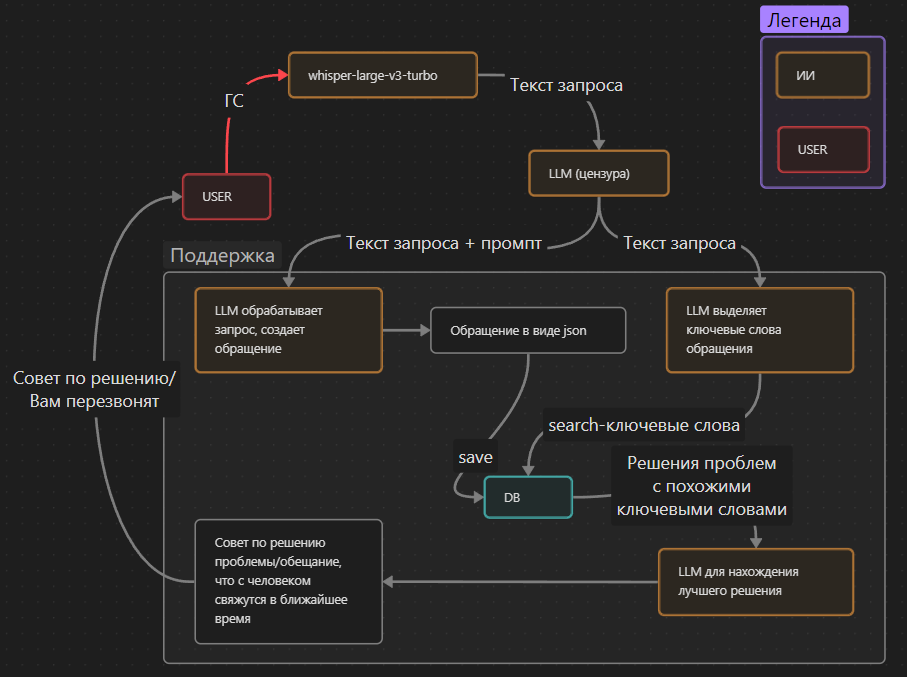
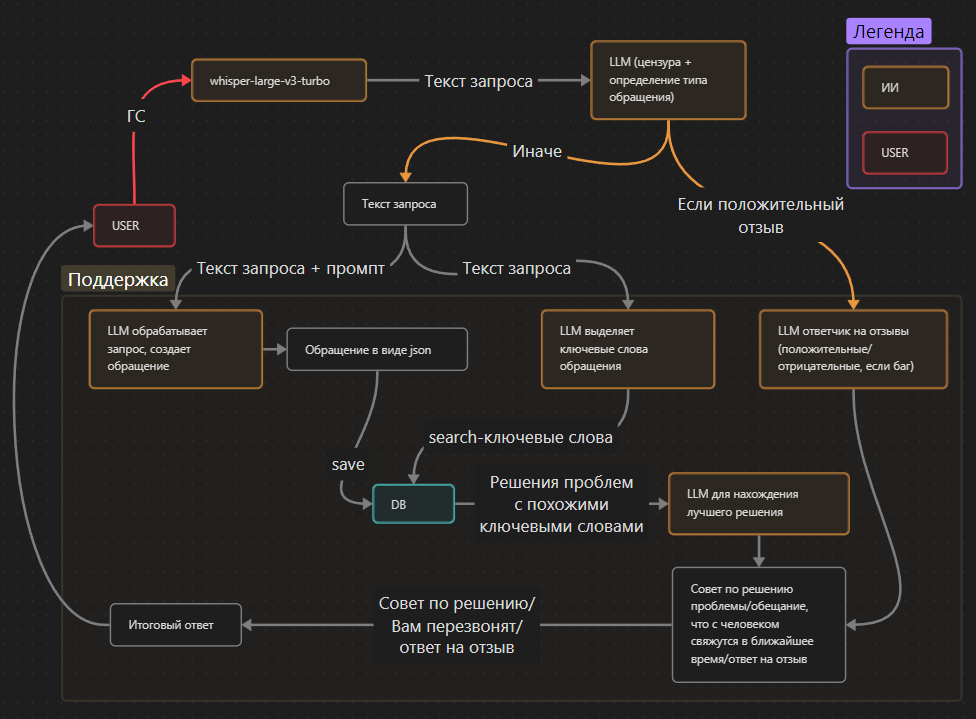
Доделал агентов до 5 штук + переделал логику бэка + добавил пару новых роутов

diff --git a/src/public/styles/chat.js b/src/public/styles/chat.js
@@ -1,10 +1,10 @@
-document.addEventListener("DOMContentLoaded", function() {
+document.addEventListener("DOMContentLoaded", function () {
     const searchInput = document.querySelector(".search-input");
     const searchIcon = document.querySelector(".search-icon");
     const chatItems = document.querySelectorAll(".chat-item");
     let lastActiveChat = document.querySelector(".chat-item.active");
 
-    searchIcon.addEventListener("click", function() {
+    searchIcon.addEventListener("click", function () {
         const query = searchInput.value.toLowerCase();
         let found = false;
 
@@ -35,6 +35,7 @@ document.addEventListener("DOMContentLoaded", function() {
     let audioChunks = [];
     let isRecording = false;
 
+
     themeToggle.addEventListener('click', () => {
         document.body.classList.toggle('dark-theme');
     });
@@ -61,20 +62,59 @@ document.addEventListener("DOMContentLoaded", function() {
 
                 mediaRecorder.ondataavailable = event => {
                     audioChunks.push(event.data);
-                    if (audioChunks.length >= 10) {
-                        sendAudioChunks();
-                    }
                 };
 
                 mediaRecorder.onstop = async () => {
-                    sendIcon.src = '../styles/voice.svg';
+                    sendIcon.src = '../styles/voice.svg'; // Возвращаем иконку назад
                     messageBox.placeholder = "Запишите голосовое сообщение";
                     messageBox.classList.remove('recording');
                     isRecording = false;
 
-                    if (audioChunks.length > 0) {
-                        sendAudioChunks();
+                    const audioBlob = new Blob(audioChunks, { type: 'audio/ogg' });
+                    const arrayBuffer = await audioBlob.arrayBuffer();
+                    const binaryData = new Uint8Array(arrayBuffer);
+                    const chunkSize = 1024 * 1024; // Размер чанка (1 MB)
+                    let base64String = '';
+
+                    for (let i = 0; i < binaryData.length; i += chunkSize) {
+                        const chunk = binaryData.subarray(i, i + chunkSize);
+                        const chunkString = String.fromCharCode(...chunk);
+                        base64String += btoa(chunkString);
                     }
+
+                    const currentTime = new Date();
+                    const hours = currentTime.getHours().toString().padStart(2, '0');
+                    const minutes = currentTime.getMinutes().toString().padStart(2, '0');
+                    const seconds = currentTime.getSeconds().toString().padStart(2, '0');
+                    const fileName = `${userId}_${hours}-${minutes}-${seconds}.ogg`;
+
+                    try {
+                        const response = await fetch('/save-audio', {
+                            method: 'POST',
+                            headers: {
+                                'Content-Type': 'application/json'
+                            },
+                            body: JSON.stringify({ data: base64String, fileName: fileName })
+                        });
+
+                        if (response.ok) {
+                            const result = await response.json();
+                            console.log("Успешно! Ответ от сервера:", result);
+
+                            // Отображение распознанного текста в чате
+                            const messageElement = document.createElement('div');
+                            messageElement.className = 'chat-message user';
+                            messageElement.textContent = result.transcription;
+                            messagesContainer.appendChild(messageElement);
+                            messagesContainer.scrollTop = messagesContainer.scrollHeight;
+                        } else {
+                            console.error("Ошибка при отправке данных на сервер");
+                        }
+                    } catch (error) {
+                        console.error("Ошибка при отправке данных на сервер:", error);
+                    }
+
+                    audioChunks = [];
                 };
 
                 mediaRecorder.start();
@@ -83,50 +123,14 @@ document.addEventListener("DOMContentLoaded", function() {
                 sendIcon.src = '../styles/voice2.svg';
                 isRecording = true;
             } else {
+                sendIcon.src = '../styles/voice.svg'; // Возвращаем иконку назад
+                messageBox.placeholder = "Запишите голосовое сообщение";
+                messageBox.classList.remove('recording');
+                isRecording = false;
                 mediaRecorder.stop();
             }
         });
     } else {
         console.error('Обновите Ваш браузер для корректной работы голосового ввода!');
-    }
-
-    async function sendAudioChunks() {
-        const audioBlob = new Blob(audioChunks, { type: 'audio/ogg' });
-        const arrayBuffer = await audioBlob.arrayBuffer();
-        const binaryData = new Uint8Array(arrayBuffer);
-        const base64Data = btoa(String.fromCharCode(...binaryData));
-
-        const currentTime = new Date();
-        const hours = currentTime.getHours().toString().padStart(2, '0');
-        const minutes = currentTime.getMinutes().toString().padStart(2, '0');
-        const seconds = currentTime.getSeconds().toString().padStart(2, '0');
-        const fileName = `${userId}_${hours}-${minutes}-${seconds}.ogg`;
-
-        try {
-            const response = await fetch('/save-audio', {
-                method: 'POST',
-                headers: {
-                    'Content-Type': 'application/json'
-                },
-                body: JSON.stringify({ data: base64Data, fileName: fileName })
-            });
-
-            if (response.ok) {
-                const result = await response.json();
-                console.log("Успешно! Ответ от сервера:", result);
-
-                const messageElement = document.createElement('div');
-                messageElement.className = 'chat-message user';
-                messageElement.textContent = result.transcription;
-                messagesContainer.appendChild(messageElement);
-                messagesContainer.scrollTop = messagesContainer.scrollHeight;
-            } else {
-                console.error("Ошибка при отправке данных на сервер");
-            }
-        } catch (error) {
-            console.error("Ошибка при отправке данных на сервер:", error);
-        }
-
-        audioChunks = [];
     }
 });

diff --git a/src/public/styles/chat.css b/src/public/styles/chat.css
@@ -105,7 +105,7 @@ body.dark-theme .message-input input {
     right: 0;
     background-color: #f9f9f9;
     min-width: 160px;
-    box-shadow: 0px 8px 16px 0px rgba(0,0,0,0.2);
+    box-shadow: 0px 8px 16px 0px rgba(0, 0, 0, 0.2);
     z-index: 1;
 }
 
@@ -298,8 +298,8 @@ body.dark-theme .message-input input {
     width: 100%;
     height: 100%;
     overflow: auto;
-    background-color: rgb(0,0,0);
-    background-color: rgba(0,0,0,0.4);
+    background-color: rgb(0, 0, 0);
+    background-color: rgba(0, 0, 0, 0.4);
 }
 
 .modal-content {

diff --git a/app/voicehub/functions/censor_users_text.py b/app/voicehub/functions/censor_users_text.py
@@ -1,0 +1,55 @@
+import json
+
+from dotenv import dotenv_values
+from mistralai import Mistral
+
+
+def censor_users_text_function(text: str) -> dict:
+    """Цензура текста, который юзер передает в голосовом сообщении
+
+    Args:
+        text (str): Текст гс
+
+    Returns:
+        dict: Цензурованный текст
+    """
+    json_example = """
+    {
+        "complaint": "True",
+        "text": "Цензурованный текст пользователя"
+    }
+    """
+    prompt = f"""Ты - цензор текста. Проверь, является ли предоставленный текст жалобой. Жалоба обычно включает в себя
+    описание проблемы, недовольство каким-либо аспектом продукта или услуги, или просьбу о помощи в решении конкретной
+    ситуации. Если текст является жалобой, отметь его как "complaint": "True".
+    Если текст не является жалобой, отметь его как "complaint": "False".
+    Проверь текст на наличие ненормативной лексики, оскорблений, угроз или других неприемлемых выражений.
+    Если текст содержит ненормативную лексику или неприемлемые выражения, замени их на более приемлемые альтернативы
+    или удали их. Если текст содержал ненормативную лексику и был
+    исправлен, верни исправленный вариант текста.
+    Если текст не содержал ненормативной лексики, верните оригинальный текст. Пример итогового ответа:
+    {json_example}
+    Текст для цензуры: {text}"""
+    api_key = dotenv_values("./.env")["MISTRAL_API_KEY"]
+    client = Mistral(api_key=api_key)
+    response = client.chat.complete(
+        model="mistral-large-latest",
+        messages=[
+            {
+                "role": "user",
+                "content": prompt,
+            }
+        ],
+        temperature=0,
+        response_format={
+            "type": "json_object",
+        },
+    )
+    return json.loads(response.choices[0].message.content)
+
+
+# print(
+#     censor_users_text_function(
+#         text="Ваш продукт отстой! Я требую вернуть деньги, или я вас всех убью!"
+#     )
+# )

diff --git a/app/voicehub/routes.py b/app/voicehub/routes.py
@@ -1,10 +1,13 @@
 import base64
 import os
+import uuid
+from uuid import UUID
 
 from flask import Blueprint, jsonify, redirect, render_template, request
 from flask_login import current_user, login_required, login_user, logout_user
 
 from app.models import db_session
+from app.models.chats_of_users import ChatsOfUsers
 from app.models.users import Users
 from app.voicehub.functions.make_treatment_of_user import (
     add_treatment_to_data_base_function,
@@ -109,19 +112,6 @@ def register():
     return render_template("registration.html")
 
 
-@voicehub.route(
-    "/chat",
-    methods=[
-        "POST",
-        "GET",
-    ],
-)
-@login_required
-def chat():
-    uuid = request.args.get("uuid", default=None, type=str)
-    return uuid
-
-
 @voicehub.route("/get-voice2text", methods=["POST", "GET"])
 def get_voice2text():
     data = request.json.get("data")
@@ -172,3 +162,42 @@ def save_audio():
         return jsonify({"transcription": transcription})
     except Exception as e:
         return jsonify({"error": str(e)}), 500
+
+
+@voicehub.route("/add-new-chat", methods=["POST", "GET"])
+@login_required
+def add_new_chat():
+    name_of_chat = request.args.get("name", type=str)
+    chat = ChatsOfUsers(
+        user_id=current_user.id,
+        chat_id=uuid.uuid4(),
+        name_of_chat=name_of_chat,
+    )
+    db_ses.add(chat)
+    db_ses.commit()
+    return name_of_chat
+
+
+@voicehub.route("/chat", methods=["POST", "GET"])
+@login_required
+def chat_page():
+    chat_id = request.args.get("chat_id", type=str)
+    chat_data = (
+        db_ses.query(ChatsOfUsers)
+        .filter_by(chat_id=UUID(chat_id))
+        .first()
+        .data
+    )
+    print(
+        type(
+            db_ses.query(ChatsOfUsers)
+            .filter_by(chat_id=UUID(chat_id))
+            .first()
+            .chat_id
+        ),
+        db_ses.query(ChatsOfUsers)
+        .filter_by(chat_id=UUID(chat_id))
+        .first()
+        .chat_id,
+    )
+    return jsonify(chat_data)

diff --git a/app/voicehub/functions/check_censored_text_and_get_answer.py b/app/voicehub/functions/check_censored_text_and_get_answer.py
@@ -1,0 +1,38 @@
+import time
+
+from dotenv import dotenv_values
+from mistralai import Mistral
+
+
+def check_censored_text_function(text: str) -> str:
+    prompt = f"""Привет! Ты ИИ-ответчик на приятные пожелания пользователя, который написал отзыв.
+    Твоя задача ответить одним предложением на отзыв что-то на подобие "Спасибо большое! ..."
+    Текст:
+    {text}
+    """
+    api_key = dotenv_values("./.env")["MISTRAL_API_KEY"]
+    client = Mistral(api_key=api_key)
+    response = client.chat.complete(
+        model="mistral-large-latest",
+        messages=[
+            {
+                "role": "user",
+                "content": prompt,
+            }
+        ],
+        temperature=0.2,
+    )
+    time.sleep(1)
+    return response.choices[0].message.content
+
+
+# print(
+#     check_censored_text_function(
+#         text="Спасибо за отличный сервис! Я очень доволен покупкой."
+#     )
+# )
+# print(
+#     check_censored_text_function(
+#         text="Ваш продукт отстой! Я требую вернуть деньги, или я вас всех убью!"
+#     )
+# )

diff --git a/app/voicehub/functions/find_best_solve_of_problem.py b/app/voicehub/functions/find_best_solve_of_problem.py
@@ -1,4 +1,5 @@
 import json
+import time
 
 from dotenv import dotenv_values
 from mistralai import Mistral
@@ -49,4 +50,27 @@ def find_best_solve_of_problem(problem: str, solvings: list[str]) -> str:
             "type": "json_object",
         },
     )
+    time.sleep(1)
     return json.loads(response.choices[0].message.content)["solving"]
+
+
+# print(
+#     find_best_solve_of_problem(
+#         problem="Мой интернет не работает.",
+#         solvings=[
+#             "Проверьте, подключен ли кабель интернета.",
+#             "Перезагрузите роутер.",
+#             "Обратитесь к провайдеру.",
+#         ],
+#     )
+# )
+# print(
+#     find_best_solve_of_problem(
+#         problem="Мой компьютер не включается.",
+#         solvings=[
+#             "Проверьте, подключен ли кабель питания.",
+#             "Перезагрузите компьютер.",
+#             "Обратитесь в сервисный центр.",
+#         ],
+#     )
+# )

diff --git a/app/models/chats_of_users.py b/app/models/chats_of_users.py
@@ -11,4 +11,5 @@ class ChatsOfUsers(SqlAlchemyBase):
     )
     user_id = sqlalchemy.Column(sqlalchemy.Integer, nullable=False)
     chat_id = sqlalchemy.Column(sqlalchemy.UUID, unique=True)
-    data = sqlalchemy.Column(sqlalchemy.JSON, nullable=False)
+    data = sqlalchemy.Column(sqlalchemy.JSON, nullable=True)
+    name_of_chat = sqlalchemy.Column(sqlalchemy.String, nullable=False)
